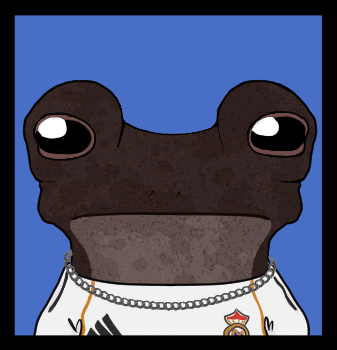
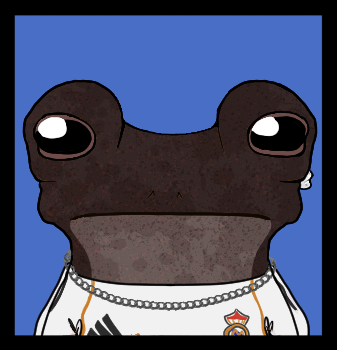
pegatinas completadas

diff --git a/index.html b/index.html
@@ -907,7 +907,7 @@
                     </div>
 
                     <div class="pegatina-imagen">
-                        <img src="https://github.com/Tritton080/FROSCH-WUNDER/blob/main/img/LogoJuego.png?raw=true"
+                        <img src="https://github.com/Tritton080/FROSCH-WUNDER/blob/main/img/Edu.png?raw=true"
                             alt="Foto pegatina">
                     </div>
 
@@ -947,7 +947,7 @@
                     </div>
 
                     <div class="pegatina-imagen">
-                        <img src="https://github.com/Tritton080/FROSCH-WUNDER/blob/main/img/LogoJuego.png?raw=true"
+                        <img src="https://github.com/Tritton080/FROSCH-WUNDER/blob/main/img/Dani.png?raw=true"
                             alt="Foto pegatina">
                     </div>
                 </div>